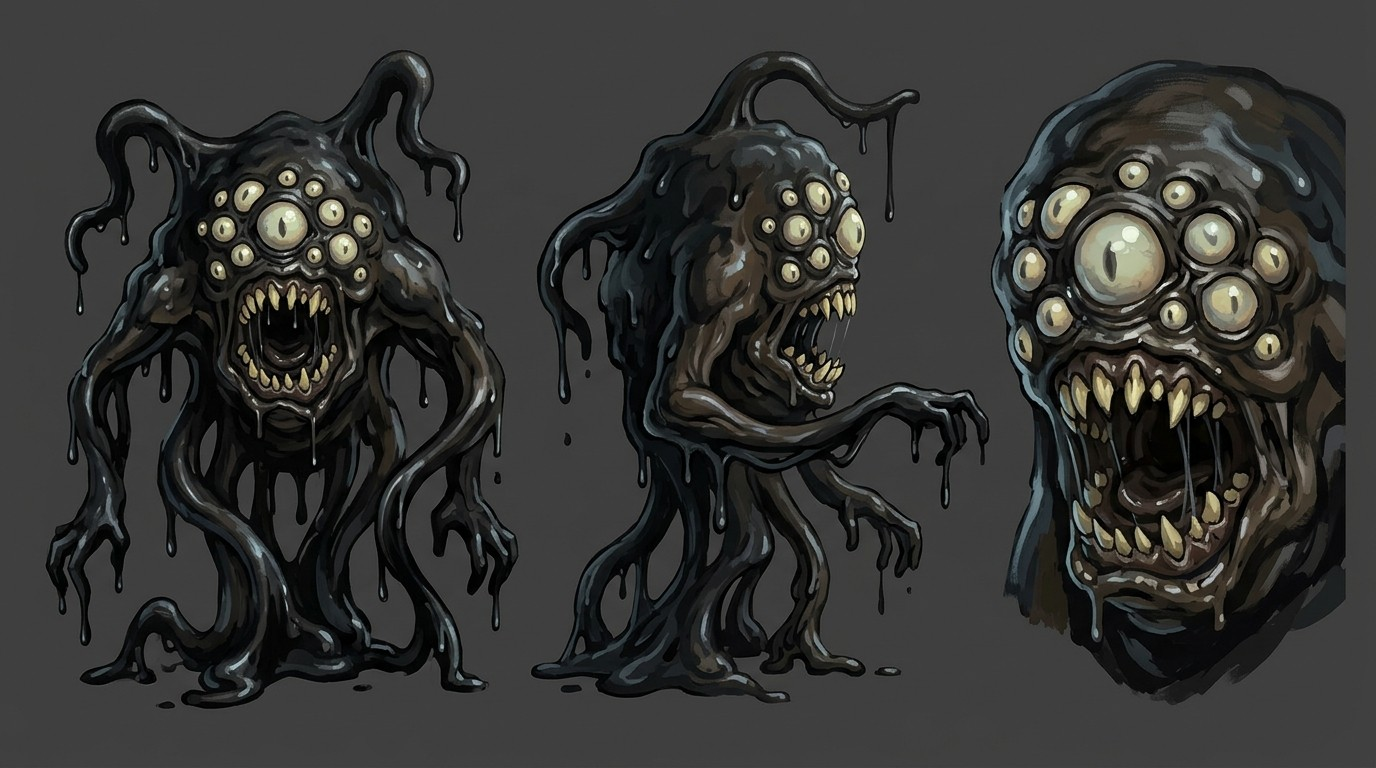
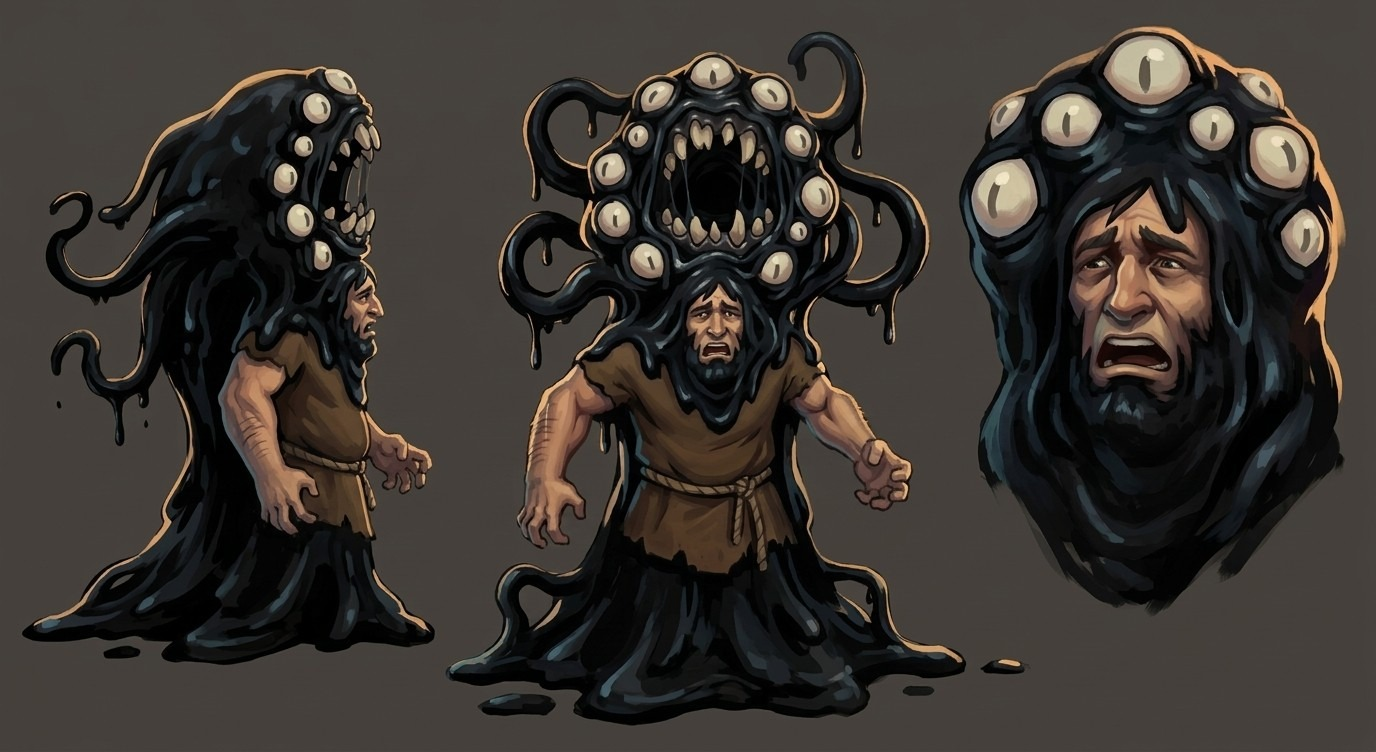
Chronicle level 3: vast corrupted swamp (dying giant tree, cobblestone paths, black goo water, overhang pillars ~50 m either side); Carius fused into the aberration
Claude-Session: https://claude.ai/code/session_01ATYH57jnXnDsQfoAHnRMyx

diff --git a/chronicle/painted/make/03.py b/chronicle/painted/make/03.py
@@ -19,7 +19,7 @@ LU="Lucien Vale (long blond hair, pointed ears, burgundy coat) "
 MEM="painted like a faded memory, soft haze, muted colours, "
 TAV="in Mara's tavern at night, warm firelight, "
 BASE="in the stone basement under Mara's tavern, candlelight, "
-SWAMP="in a dark misty swamp forest, twisted trees, hanging moss, "
+SWAMP="in a vast corrupted swamp around the first moonwell, a huge open dead marsh: a giant half-dead ancient tree in the middle, old cobblestone paths winding through parts of it, everything else drowned under black goo water, dead reeds, mist, "
 S_=[
 (0,'black',[],['fog'],"Mara's tavern on a wet cobbled street at night, a warm window, no people",{'flicker':0.3}),
 (7.0,'fade',[],['fog'],"Close-up of a small glass vial of glowing silver moonwell water standing on a scarred tavern table, candlelight",{'flicker':0.3}),
@@ -54,14 +54,14 @@ S_=[
 (201.6,'cut',[],[],None,{'img':'s18'}),
 (208.3,'cut',[],[],None,{'img':'s19'}),
 (214.6,'cut',[],[],None,{'img':'s20'}),
-(221.3,'fade',[],['fog'],SWAMP+"an ancient stone moonwell basin choked with thick black goo, dead trees around it, no people",{'grade':'green'}),
+(221.3,'fade',[],['fog'],SWAMP+"very wide shot: the whole corrupted swamp with the huge dying tree in the middle, black goo water everywhere, broken cobblestone paths, two enormous stone overhang pillars far away on either side of the tree, no people",{'grade':'green'}),
 (224.6,'cut',[SE],['fog'],MEM+SWAMP+"the faint pale shadow of Severin passing through the swamp days ago, green light trailing",{'grade':'green'}),
-(227.9,'cut',[AB],['fog'],SWAMP+"a monstrous aberration rising out of the black goo, tendrils and too many eyes",{'grade':'green','shake':0.3}),
-(231.0,'cut',[AB,CA],['fog'],SWAMP+"the aberration clutching Carius, a screaming village man, in its black tendrils",{'grade':'green','shake':0.3}),
+(227.9,'cut',[AB],['fog'],SWAMP+"a monstrous aberration rising out of the black goo water, tendrils and too many eyes, a man's body merged into its underside",{'grade':'green','shake':0.3}),
+(231.0,'cut',[AB,CA],['fog'],SWAMP+"close on the aberration's underside: Carius, a village man, fused into the black mass up to his chest, part of it, screaming in pain, reaching out",{'grade':'green','shake':0.3}),
 (234.45,'flash',[L,A,C,AB],['sparks','embers'],SWAMP+"the three brothers fighting the aberration, "+LU+"hurling fire, Arthas slashing, Cedric striking with his staff",{'shake':0.5,'flicker':0.5}),
-(237.55,'cut',[],['sparks','fireflies'],SWAMP+"two ancient carved stone pillars waking, silver runes blazing up their length, moonlight pouring between them",{'grade':'cold'}),
+(237.55,'cut',[],['sparks','fireflies'],SWAMP+"very wide shot: two colossal ancient stone pillars curving over like overhangs, one on each side of the giant tree, each about fifty metres from it, silver runes blazing up their length, beams of moonlight pouring from them toward the tree",{'grade':'cold'}),
 (240.65,'cut',[],['fireflies','fog'],SWAMP+"the great old tree in the middle of the swamp glowing silver, black goo around its roots turning back into clean shining moonwater",{'grade':'cold'}),
-(244.1,'cut',[L,A,C,CA],['fireflies'],SWAMP+"the exhausted brothers in the silver light, Carius rescued and kneeling, victory",{'grade':'cold'}),
+(244.1,'cut',[L,A,C,CA],['fireflies'],SWAMP+"the exhausted brothers standing on a cobblestone path in the silver light, Carius freed from the dead monster, collapsed and alive, victory",{'grade':'cold'}),
 (252.65,'fade',[L,CU],['fireflies','fog'],SWAMP+LU+"standing alone in the silver glow, and behind him a huge transparent cube of jelly sliding silently closer",{'grade':'cold'}),
 (259.45,'cut',[L,CU],['fog'],SWAMP+LU+"engulfed inside the transparent gelatinous cube, suspended, bubbles around him",{'grade':'green'}),
 (265.85,'cut',[L,CU],['fog'],"Close-up of "+LU+"'s face pressed against the inside of the jelly, unable to breathe, eyes wide",{'grade':'green'}),
@@ -85,8 +85,8 @@ L10=json.load(open('painted/10-ahm-dynasty.json')); L11=json.load(open('painted/
 L2=json.load(open('painted/02-finding-silas.json'))
 cast={k:L2['cast'][k] for k in ['lucien','arthas','cedric','mara','severin','wolfsilas','kids','guard']}
 cast.update({'aldraik':"Aldraik, the Ahm Dynasty's merchant master: a short, very fat human man, barely chest-high to the brothers, round belly straining a gaudy gold-embroidered black waistcoat, a big bald head, a huge bushy moustache and mutton chops, a gold tooth in a wide greedy grin, small shrewd scheming eyes, fat fingers covered in jeweled rings, a gold monocle on a chain, a fur-trimmed coat with the golden winged lion crest, a cigar; a loud, cocky, scheming boss of a villain",
- 'carius':"Carius, a man from the small village of Lehai: a farmer in his forties, plain brown tunic, muddy, terrified",
- 'aberration':"a monstrous aberration born of black goo: a dripping mass of black slime with long grasping tendrils, a ring of many pale eyes and a gaping toothed maw, as big as a cart",
+ 'carius':"Carius, a man from the small village of Lehai: a farmer in his forties, plain brown tunic, muddy, terrified, half of him fused into the black goo monster",
+ 'aberration':"a monstrous aberration born of black goo: a dripping mass of black slime as big as a cart with long grasping tendrils, a ring of many pale eyes and a gaping toothed maw; fused into its underside is Carius, a village man in a plain brown tunic, merged into the black mass up to his chest underneath the creature, unarmed with empty clawing hands, his anguished face and arms sticking out, the monster far bigger than him looming over him, part of the creature",
  'cube':"a gelatinous cube: a huge transparent, faintly green block of jelly in the exact shape of a perfect cube with flat sides and straight edges, taller than a man, almost invisible, bones and coins floating inside it, never shaped like a person or creature"})
 board={"id":"first-moonwell","live":False,'cover':'s17','style':L12['style'],'cast':cast,'shots':shots}
 head_={k:v for k,v in board.items() if k!='shots'}
